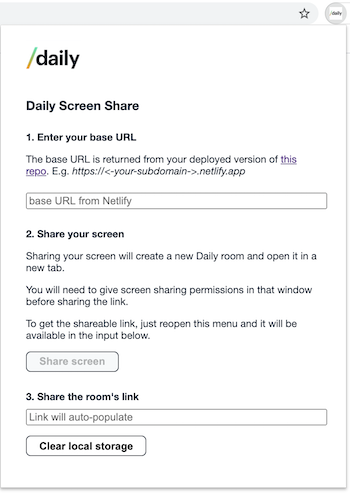
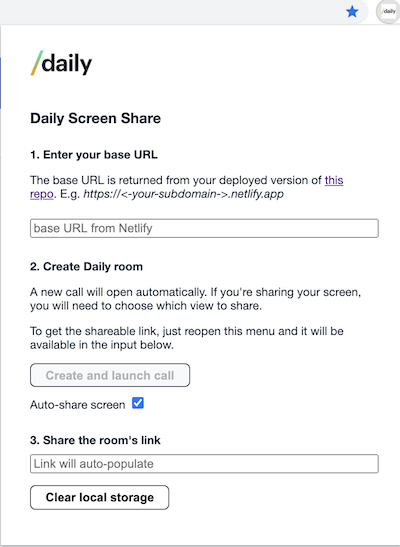
make screen share optional

diff --git a/popup.js b/popup.js
@@ -1,5 +1,5 @@
 function createRoomAndShareScreen() {
-    const baseUrlValue = document.getElementById('baseURL').value.trim();
+    const baseUrlValue = document.getElementById('baseURL').value.trim().replace(/\/+$/, '');
     localStorage.setItem('daily-chrome-extension-baseurl', baseUrlValue);
     const shareableRoomUrlInput = document.getElementById('screenShareURL');
     if (baseUrlValue) {
@@ -9,20 +9,29 @@ function createRoomAndShareScreen() {
             .then(response => response.json())
             .then(data => {
                 if (data.url) {
-                    const url = `${baseUrlValue}/?room=${data.url}&screenshare=true`;
+                    const shouldShareScreen = document
+                        .getElementById('screenShareCheckbox')
+                        .checked ? '&screenshare=true' : '';
+                    const url = `${baseUrlValue}/?room=${data.url}${shouldShareScreen}`;
                     localStorage.setItem('daily-chrome-extension-shareurl', `${baseUrlValue}/?room=${data.url}`);
                     shareableRoomUrlInput.value = url;
                     chrome.tabs.create({ url });
                 } else {
-                    document.getElementsByClassName('error')[0].textContent = 'Oops! A room url was not returned. Please check your base URL.'
+                    document
+                        .getElementsByClassName('error')[0]
+                        .textContent = 'Oops! A room url was not returned. Please check your base URL.'
                 }
             })
             .catch(err => {
                 console.warn(err);
-                document.getElementsByClassName('error')[0].textContent = 'Oops! That didn\'t work. Please check your base URL.'
+                document
+                    .getElementsByClassName('error')[0]
+                    .textContent = 'Oops! That didn\'t work. Make sure you have a base URL in this format: https://<-your-subdomain->.netlify.app'
             });
     } else {
-        document.getElementsByClassName('error')[0].textContent = 'hi'
+        document
+            .getElementsByClassName('error')[0]
+            .textContent = 'Make sure you have a base URL in this format: https://<-your-subdomain->.netlify.app'
     }
 }
 function handleBaseInputChange(e) {
@@ -58,6 +67,7 @@ document.addEventListener('DOMContentLoaded', function() {
     clearButton.addEventListener('click', function() {
         localStorage.removeItem('daily-chrome-extension-shareurl');
         localStorage.removeItem('daily-chrome-extension-baseurl');
+        document.getElementById('baseURL').value = '';
         document.getElementById('screenShareURL').value = '';
     });
 });

diff --git a/menu.html b/menu.html
@@ -77,11 +77,12 @@
     <label class="label" for="baseURL">1. Enter your base URL</label>
     <p>The base URL is returned from your deployed version of <a href="https://github.com/daily-demos/prebuilt-and-serverless">this repo</a>. E.g. <span class="example-text">https://<-your-subdomain->.netlify.app</span></p>
     <input placeholder="base URL from Netlify" class="input" type="text" id="baseURL">
-    <p class="text"> 2. Share your screen</p>
-    <p>Sharing your screen will create a new Daily room and open it in a new tab.</p>
-    <p>You will need to give screen sharing permissions in that window before sharing the link.</p>
+    <p class="text"> 2. Create Daily room</p>
+    <p>A new call will open automatically. If you're sharing your screen, you will need to choose which view to share.</p>
     <p>To get the shareable link, just reopen this menu and it will be available in the input below.</p>
-    <button class="share-button" disabled>Share screen</button>
+    <button class="share-button" disabled>Create and launch call</button>
+    <label for="screenShareCheckbox">Auto-share screen</label>
+    <input id="screenShareCheckbox" type="checkbox" checked>
     <label class="label" for="screenShareURL">3. Share the room's link</label>
     <input placeholder="Link will auto-populate" class="input" type="text" id="screenShareURL">
     <p class="error"></p>

diff --git a/README.md b/README.md
@@ -2,11 +2,11 @@
 
 There are two main parts to this Chrome extension:
 
-- [the back-end component](https://github.com/daily-demos/prebuilt-and-serverless), which creates the endpoint for creating new rooms to screen share from 
+- [the back-end component](https://github.com/daily-demos/prebuilt-and-serverless), which creates the endpoint for creating new Daily rooms
 - this repo, which contains the Chrome extension code for sharing your screen with just one (okay, *two*) clicks!
 
 ## Before getting started...
-The first step will be getting your backend set up. Follow the steps in [this repo](https://github.com/daily-demos/prebuilt-and-serverless) as a very first step. (It's quick, we promise!)
+The first step will be deploying the back-end. Follow the steps in [this repo](https://github.com/daily-demos/prebuilt-and-serverless) as a very first step. (It's quick, we promise!) You will need to have a [Daily account](https://dashboard.daily.co/) to get your Daily API key.
 
 ## Getting started
 
